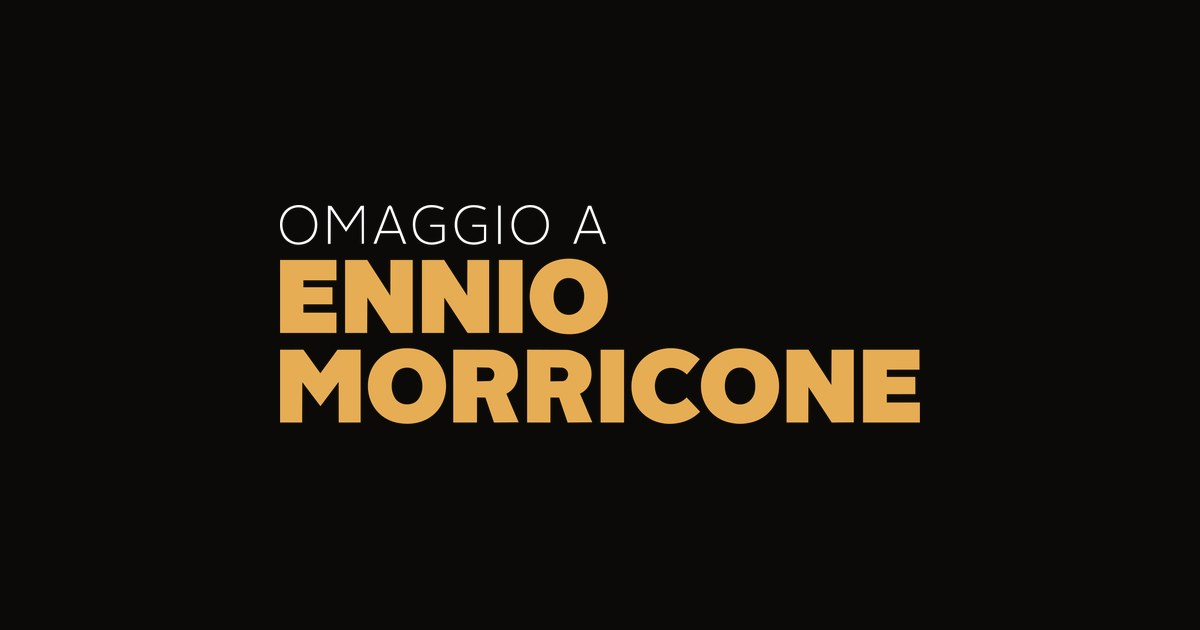
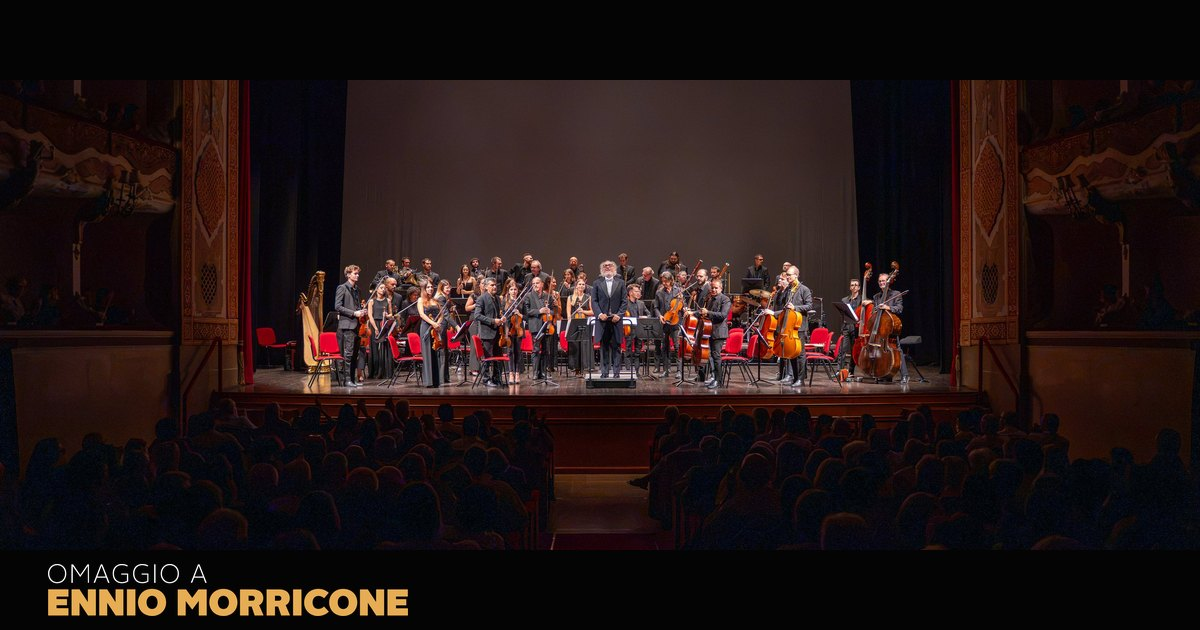
T36: OG per pagina, sitemap i18n, robots e interruttore di indicizzazione (#36) (#96)

diff --git a/src/pages/robots.txt.ts b/src/pages/robots.txt.ts
@@ -1,0 +1,11 @@
+// robots.txt (ARCHITECTURE.md §12): aperto con la sitemap solo quando PUBLIC_INDICIZZA=true (go-live, T41),
+// altrimenti chiuso a tutti, come il noindex di Seo.astro.
+import type { APIRoute } from 'astro';
+
+export const GET: APIRoute = ({ site }) => {
+  const indicizza = import.meta.env.PUBLIC_INDICIZZA === 'true';
+  const testo = indicizza
+    ? `User-agent: *\nAllow: /\nDisallow: /api/\n\nSitemap: ${new URL('sitemap-index.xml', site).href}\n`
+    : 'User-agent: *\nDisallow: /\n';
+  return new Response(testo, { headers: { 'Content-Type': 'text/plain; charset=utf-8' } });
+};

diff --git a/scripts/og.py b/scripts/og.py
@@ -1,0 +1,69 @@
+"""Immagini Open Graph 1200×630 per pagina (ARCHITECTURE.md §10, §12).
+
+Stile Cinemascope: foto nella finestra 2,39:1 (1200×470 nella tela) tra due bande sala-000; logo orizzontale oro
+nella banda bassa. Nessun testo oltre al logo, quindi la stessa immagine vale per IT ed EN.
+Le foto arrivano da src/assets/foto (via scripts/foto.py), con il punto di ritaglio di foto.json.
+
+Uso: python scripts/og.py
+"""
+import json
+from pathlib import Path
+
+from PIL import Image
+
+RADICE = Path(__file__).resolve().parent.parent
+FOTO = RADICE / 'src' / 'assets' / 'foto'
+LOGO = RADICE / 'src' / 'assets' / 'logo' / 'logo-oro-orizzontale.png'
+USCITA = RADICE / 'public' / 'og'
+
+L, H = 1200, 630
+FINESTRA = 470  # finestra 1200×470 (≈2,55:1, appena più larga del 2,39): bande da 80 px, spazio per il logo
+BANDA = (H - FINESTRA) // 2
+SALA_000 = (5, 4, 4)
+LOGO_LARGHEZZA = 360
+MARGINE = 48
+
+# Pagina → foto (id in foto.json). "default" serve a Privacy, Cookie, Grazie e 404.
+PAGINE = {
+    'home': 'orchestra-schermo-03',
+    'progetto': 'orchestra-schermo-01',
+    'maestro': 'maestro-01',
+    'date': 'pubblico-01',
+    'promoter': 'luogo-castello-01',
+    'contatti': 'saluti-01',
+    'default': 'orchestra-schermo-02',
+}
+
+
+def posizione(valore: str) -> tuple[float, float]:
+    x, y = (float(v.strip('%')) / 100 for v in valore.split())
+    return x, y
+
+
+def ritaglia(foto: Image.Image, larghezza: int, altezza: int, pos: tuple[float, float]) -> Image.Image:
+    """Come object-fit: cover + object-position."""
+    scala = max(larghezza / foto.width, altezza / foto.height)
+    f = foto.resize((round(foto.width * scala), round(foto.height * scala)), Image.LANCZOS)
+    x = round((f.width - larghezza) * pos[0])
+    y = round((f.height - altezza) * pos[1])
+    return f.crop((x, y, x + larghezza, y + altezza))
+
+
+def main() -> None:
+    voci = {v['id']: v for v in json.loads((RADICE / 'src' / 'content' / 'foto.json').read_text(encoding='utf-8'))}
+    logo = Image.open(LOGO).convert('RGBA')
+    logo = logo.resize((LOGO_LARGHEZZA, round(logo.height * LOGO_LARGHEZZA / logo.width)), Image.LANCZOS)
+    USCITA.mkdir(parents=True, exist_ok=True)
+
+    for pagina, id_foto in PAGINE.items():
+        foto = Image.open(FOTO / f'{id_foto}.jpg').convert('RGB')
+        pos = posizione(voci[id_foto].get('posizione', '50% 50%'))
+        tela = Image.new('RGB', (L, H), SALA_000)
+        tela.paste(ritaglia(foto, L, FINESTRA, pos), (0, BANDA))
+        tela.paste(logo, (MARGINE, BANDA + FINESTRA + (BANDA - logo.height) // 2), logo)
+        tela.save(USCITA / f'{pagina}.jpg', quality=86, optimize=True, progressive=True)
+        print(f'og/{pagina}.jpg ← {id_foto}')
+
+
+if __name__ == '__main__':
+    main()

diff --git a/HANDSOFF.md b/HANDSOFF.md
@@ -7,7 +7,8 @@
 **T29–T34 fatti**: `pagine/{Progetto,Maestro,Date,Promoter,Contatti,Grazie,Legale}.astro`, `pages/404.astro`, `PulsantePressKit`, `ModuloContatti` + `/api/contatti/` (Zod, honeypot, limite 5/10 min, Resend via fetch) + `TestaPagina` (h1 delle pagine interne) e `Ritratto` (4:5 da foto orizzontale).
 **T35 fatto**: `python scripts/verifica_en.py` (dopo `VERCEL_ENV=production npx astro build`) controlla parità IT/EN, hreflang e parole italiane nelle pagine EN.
 **Revisione utente (PR #91–#95)**: date reali (Fenice 7/11/2026 + archivio 2013–2026 da diegobasso.com) · hero senza occhiello · play trailer centrato · Promoter senza versioni/scheda tecnica (verranno pulsanti press kit + rider) · repertorio = una frase (`t(lang).repertorio`) · Spotify con raggio 12 px · media: `QUALITA = 82`, `sizes` del ritratto, hls stima 6 Mbit/s, grana 0,035 · `Sezione affiancata` (titolo a sinistra sticky, testo a destra da 1100 px), legali in colonna centrata.
-**Prossimo**: chiedere all'utente se l'hero deve perdere anche sottotitolo/pulsante; poi epic M5 (#47) aperta solo per T33 (Resend). Poi M6: guardare `gh issue list --milestone "M6…"` (T36 OG, T37, T38…). Schema pagine: componente in `src/components/pagine/` con prop `lang` + due file sottili IT/EN.
+**T36 fatto**: OG per pagina (`python scripts/og.py`), sitemap con alternate dalle routes, `robots.txt` e `noindex` governati da `PUBLIC_INDICIZZA` (da mettere `true` su Vercel al go-live), JSON-LD eventi senza Claudia Sasso (non era in tutte le date).
+**Prossimo**: M6: T37 performance, T38 accessibilità, T39 QA, poi T40 (dati reali) e T41 (go-live). Epic M0/M1/M2/M4 da chiudere se i ticket sono tutti chiusi.
 **Decisioni**: dati via `prendi()` (segnaposto esclusi con `VERCEL_ENV=production`) · menu Testata sotto 1200 px · hero: deroga DS (testo sopra il video) · titoli film EN nell'edizione inglese, `Repertorio` resta coi titoli originali · oro del logo = `#e7ad54`.
 **Flusso**: branch → PR (`Closes #n`) → check Vercel → squash merge autonomo. Numero issue = numero ticket.
 **Comandi**: `npm run dev|build|check` · test prod `VERCEL_ENV=production npx astro build` · `python scripts/{tokens,foto,testi,verifica_en}.py` · `node scripts/loghi-svg.mjs` · `bash scripts/video_hero.sh`

diff --git a/ARCHITECTURE.md b/ARCHITECTURE.md
@@ -67,6 +67,8 @@ WEBSITE/
 │  ├─ loghi-svg.mjs      # SVG del logo → 4 SVG ritagliati + master PNG 1600 px
 │  ├─ loghi.py           # master PNG → favicon, icone, OG provvisoria
 │  ├─ testi.py           # docx → content/testi/it/*.md (alla lettera, titoli film in corsivo)
+│  ├─ og.py              # immagini Open Graph 1200×630 per pagina
+│  ├─ verifica_en.py     # parità IT/EN, hreflang, parole italiane nelle pagine EN (sulla build)
 │  ├─ video_analisi.sh   # scene detection + contact sheet (output in scripts/out/, ignorato)
 │  └─ video_hero.sh      # montaggio 10 s, export MP4/WebM, poster
 ├─ public/
@@ -248,7 +250,9 @@ Si usa `.om-grana` di `bundle.css` del DS (rumore SVG incorporato, nessun file i
 - Title: `<Pagina> — Omaggio a Ennio Morricone` (Home: `Omaggio a Ennio Morricone — Diego Basso, Orchestra Ritmico Sinfonica Italiana`). Description 140–160 caratteri per pagina e lingua (dal testo breve DS).
 - OG/Twitter: `og:image` 1200×630 per pagina, `og:locale` it_IT / en_GB.
 - JSON-LD: `MusicEvent` per ogni data (name, startDate con fuso, location `Place`+`PostalAddress`+`GeoCoordinates`, performer `PerformingGroup` + `Person`, offers url, eventStatus, eventAttendanceMode); `PerformingGroup` + `MusicAlbum` (streaming) in Home.
-- `@astrojs/sitemap` con i18n, `robots.txt`, canonical, 404 `noindex`. Le preview Vercel hanno già `X-Robots-Tag: noindex`.
+- `@astrojs/sitemap` con alternate IT/EN costruite dalle `routes` (slug tradotti; escluse le pagine di conferma), `robots.txt` generato da `src/pages/robots.txt.ts`, canonical, 404 `noindex`. Le preview Vercel hanno già `X-Robots-Tag: noindex`.
+- **Interruttore di indicizzazione**: `PUBLIC_INDICIZZA=true` (variabile Vercel di produzione, da accendere al go-live T41). Senza, ogni pagina è `noindex` e `robots.txt` è `Disallow: /`.
+- OG per pagina: `python scripts/og.py` → `public/og/{home,progetto,maestro,date,promoter,contatti,default}.jpg` (foto in finestra Cinemascope + logo oro nella banda, valide per IT ed EN).
 
 ---
 
